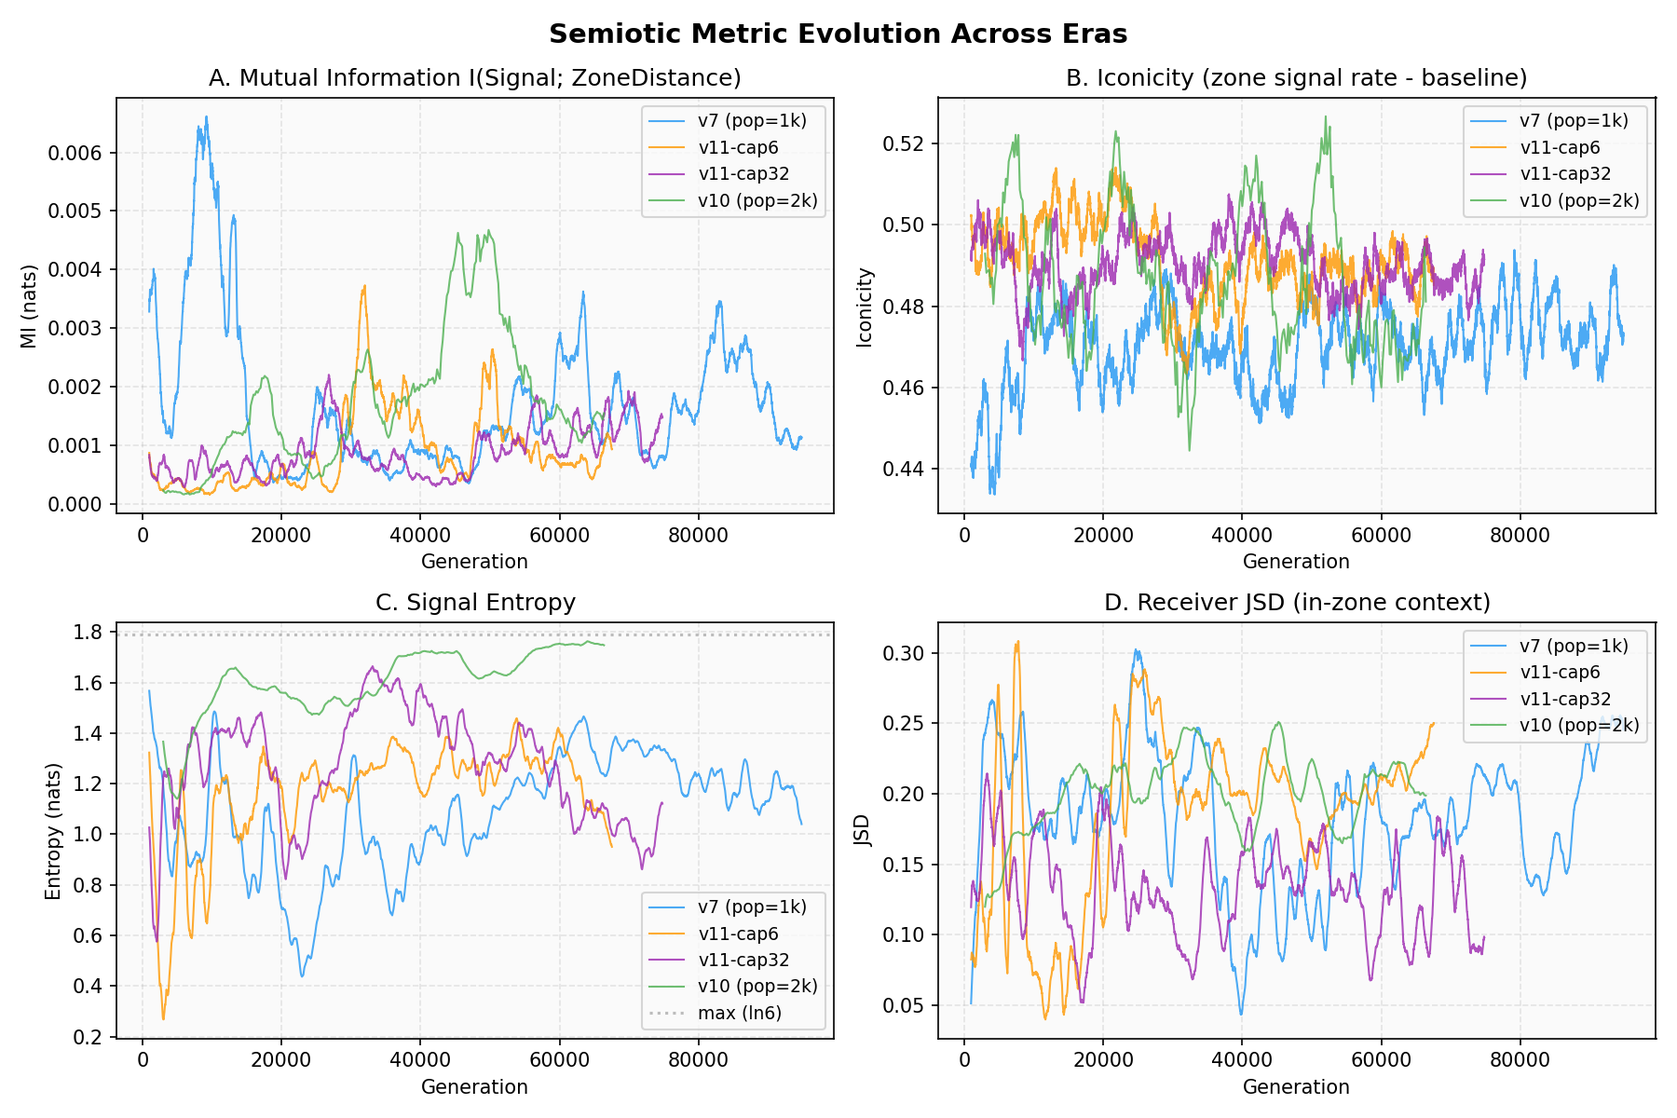
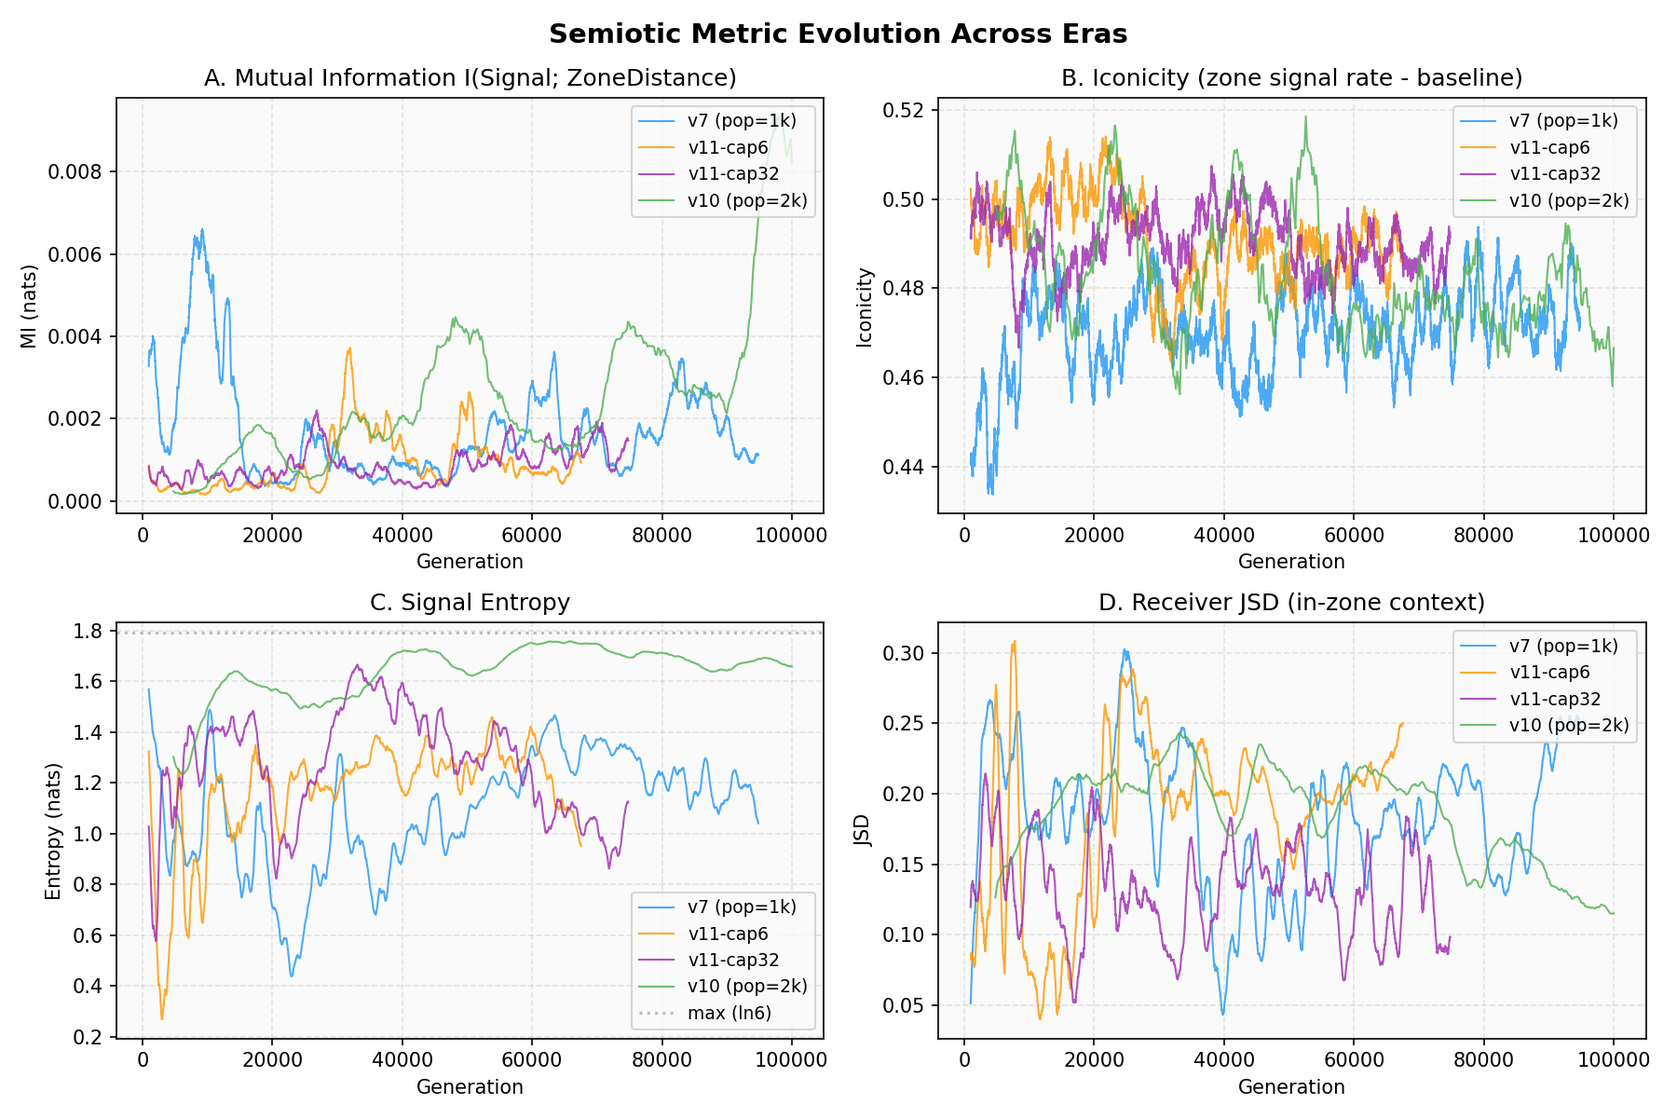
Document v10 and v12 completed runs, add blind vs sighted figure

diff --git a/figures/generate_figures.py b/figures/generate_figures.py
@@ -360,7 +360,7 @@ def fig5_blind_mode():
         return
 
     fig, axes = plt.subplots(2, 2, figsize=(12, 8))
-    fig.suptitle('Era 12: Blind Mode Early Results (spatial perception stripped)', fontweight='bold', fontsize=14)
+    fig.suptitle('Era 12: Blind Mode (spatial perception stripped, 100k gens)', fontweight='bold', fontsize=14)
 
     w = max(5, len(d['generation']) // 20)
 
@@ -410,10 +410,97 @@ def fig5_blind_mode():
     print('Saved fig5_blind_mode.png')
 
 
+# --- Figure 6: Blind vs Sighted Comparison ---
+# v12-blind6-42 (blind, cap=6) vs v11-cap6-42 (sighted, cap=6) - same signal capacity, different perception
+
+def fig6_blind_vs_sighted():
+    blind = load_run('v12-blind6-42')
+    sighted = load_run('v11-cap6-42')
+
+    fig, axes = plt.subplots(2, 3, figsize=(15, 8))
+    fig.suptitle('Blind vs Sighted: Same Signal Capacity (cap=6), 100k Gens', fontweight='bold', fontsize=14)
+
+    wb = max(5, len(blind['generation']) // 20)
+    ws = max(5, len(sighted['generation']) // 20)
+
+    # Panel A: Fitness
+    ax = axes[0, 0]
+    ax.plot(smooth_gen(sighted['generation'], ws), smooth(sighted['avg_fitness'], ws),
+            color='#2196F3', alpha=0.8, linewidth=1, label='Sighted (v11-cap6)')
+    ax.plot(smooth_gen(blind['generation'], wb), smooth(blind['avg_fitness'], wb),
+            color='#607D8B', alpha=0.8, linewidth=1, label='Blind (v12)')
+    ax.set_title('A. Avg Fitness')
+    ax.set_xlabel('Generation')
+    ax.set_ylabel('Fitness')
+    ax.legend()
+
+    # Panel B: MI
+    ax = axes[0, 1]
+    ax.plot(smooth_gen(sighted['generation'], ws), smooth(sighted['mutual_info'], ws),
+            color='#2196F3', alpha=0.8, linewidth=1, label='Sighted')
+    ax.plot(smooth_gen(blind['generation'], wb), smooth(blind['mutual_info'], wb),
+            color='#607D8B', alpha=0.8, linewidth=1, label='Blind')
+    ax.set_title('B. Mutual Information')
+    ax.set_xlabel('Generation')
+    ax.set_ylabel('MI (nats)')
+    ax.legend()
+
+    # Panel C: Signal entropy
+    ax = axes[0, 2]
+    ax.plot(smooth_gen(sighted['generation'], ws), smooth(sighted['signal_entropy'], ws),
+            color='#2196F3', alpha=0.8, linewidth=1, label='Sighted')
+    ax.plot(smooth_gen(blind['generation'], wb), smooth(blind['signal_entropy'], wb),
+            color='#607D8B', alpha=0.8, linewidth=1, label='Blind')
+    ax.axhline(y=np.log(6), color='gray', linestyle=':', alpha=0.5)
+    ax.set_title('C. Signal Entropy')
+    ax.set_xlabel('Generation')
+    ax.set_ylabel('Entropy (nats)')
+    ax.legend()
+
+    # Panel D: Iconicity
+    ax = axes[1, 0]
+    ax.plot(smooth_gen(sighted['generation'], ws), smooth(sighted['iconicity'], ws),
+            color='#2196F3', alpha=0.8, linewidth=1, label='Sighted')
+    ax.plot(smooth_gen(blind['generation'], wb), smooth(blind['iconicity'], wb),
+            color='#607D8B', alpha=0.8, linewidth=1, label='Blind')
+    ax.set_title('D. Iconicity')
+    ax.set_xlabel('Generation')
+    ax.set_ylabel('Iconicity')
+    ax.legend()
+
+    # Panel E: Signal hidden size
+    ax = axes[1, 1]
+    ax.plot(smooth_gen(sighted['generation'], ws), smooth(sighted['avg_signal_hidden'], ws),
+            color='#2196F3', alpha=0.8, linewidth=1, label='Sighted')
+    ax.plot(smooth_gen(blind['generation'], wb), smooth(blind['avg_signal_hidden'], wb),
+            color='#607D8B', alpha=0.8, linewidth=1, label='Blind')
+    ax.set_title('E. Signal Hidden Size')
+    ax.set_xlabel('Generation')
+    ax.set_ylabel('Avg neurons')
+    ax.legend()
+
+    # Panel F: Zone deaths
+    ax = axes[1, 2]
+    ax.plot(smooth_gen(sighted['generation'], ws), smooth(sighted['zone_deaths'], ws),
+            color='#2196F3', alpha=0.8, linewidth=1, label='Sighted')
+    ax.plot(smooth_gen(blind['generation'], wb), smooth(blind['zone_deaths'], wb),
+            color='#607D8B', alpha=0.8, linewidth=1, label='Blind')
+    ax.set_title('F. Zone Deaths per Generation')
+    ax.set_xlabel('Generation')
+    ax.set_ylabel('Deaths')
+    ax.legend()
+
+    plt.tight_layout()
+    plt.savefig(os.path.join(DATA_DIR, 'fig6_blind_vs_sighted.png'))
+    plt.close()
+    print('Saved fig6_blind_vs_sighted.png')
+
+
 if __name__ == '__main__':
     fig1_signal_value()
     fig2_semiotic_metrics()
     fig3_brain_evolution()
     fig4_volume_knob()
     fig5_blind_mode()
+    fig6_blind_vs_sighted()
     print('All figures generated.')

diff --git a/src/signal.rs b/src/signal.rs
@@ -5,6 +5,9 @@ use crate::world::wrap_delta;
 
 pub const NUM_SYMBOLS: usize = 6;
 
+/// Chunk size for vectorizable distance computation in signal reception.
+const RECV_CHUNK: usize = 64;
+
 #[derive(Clone, Debug)]
 pub struct Signal {
     pub x: i32,
@@ -165,7 +168,6 @@ pub fn receive_detailed_grid(
     let grid_size_i = grid_size as i32;
     let half_gs = grid_size_i >> 1;
     let range_sq = signal_range * signal_range;
-    let range_i = signal_range as i32;
     let cs = grid.cell_size;
     let cpa = grid.cells_per_axis;
     let r_max = grid.cells_radius;
@@ -208,46 +210,47 @@ pub fn receive_detailed_grid(
                 let s = start as usize;
                 let end = s + len as usize;
 
-                // Inner loop: SoA access + inlined wrap_delta
-                for k in s..end {
-                    let ddx = {
-                        let d = i32::from(grid.sig_x[k]) - rx;
-                        if d > half_gs {
-                            d - grid_size_i
-                        } else if d < -half_gs {
-                            d + grid_size_i
-                        } else {
-                            d
+                // Two-pass inner loop: branchless distance (vectorizable), then
+                // scalar per-symbol min update. Chunked to keep temps in L1.
+                let xs = &grid.sig_x[s..end];
+                let ys = &grid.sig_y[s..end];
+                let syms = &grid.sig_sym[s..end];
+                let n = xs.len();
+
+                let mut buf_dsq = [f32::MAX; RECV_CHUNK];
+                let mut buf_dx = [0.0_f32; RECV_CHUNK];
+                let mut buf_dy = [0.0_f32; RECV_CHUNK];
+
+                let mut i = 0;
+                while i < n {
+                    let chunk_n = RECV_CHUNK.min(n - i);
+
+                    // Pass 1: branchless wrap + distance (LLVM can auto-vectorize)
+                    for j in 0..chunk_n {
+                        let dx = i32::from(xs[i + j]) - rx;
+                        let ddx = dx - grid_size_i * i32::from(dx > half_gs)
+                            + grid_size_i * i32::from(dx < -half_gs);
+                        let dy = i32::from(ys[i + j]) - ry;
+                        let ddy = dy - grid_size_i * i32::from(dy > half_gs)
+                            + grid_size_i * i32::from(dy < -half_gs);
+                        buf_dx[j] = ddx as f32;
+                        buf_dy[j] = ddy as f32;
+                        buf_dsq[j] = (ddx * ddx + ddy * ddy) as f32;
+                    }
+
+                    // Pass 2: per-symbol minimum (scalar, only for in-range)
+                    for j in 0..chunk_n {
+                        if buf_dsq[j] < range_sq {
+                            let sym = syms[i + j] as usize;
+                            if sym < NUM_SYMBOLS && buf_dsq[j] < best_dist_sq[sym] {
+                                best_dist_sq[sym] = buf_dsq[j];
+                                best_dx[sym] = buf_dx[j];
+                                best_dy[sym] = buf_dy[j];
+                            }
                         }
-                    };
-                    if ddx > range_i || ddx < -range_i {
-                        continue;
                     }
-                    let ddy = {
-                        let d = i32::from(grid.sig_y[k]) - ry;
-                        if d > half_gs {
-                            d - grid_size_i
-                        } else if d < -half_gs {
-                            d + grid_size_i
-                        } else {
-                            d
-                        }
-                    };
-                    if ddy > range_i || ddy < -range_i {
-                        continue;
-                    }
-                    let dxf = ddx as f32;
-                    let dyf = ddy as f32;
-                    let dist_sq = dxf * dxf + dyf * dyf;
-                    if dist_sq >= range_sq {
-                        continue;
-                    }
-                    let sym = grid.sig_sym[k] as usize;
-                    if sym < NUM_SYMBOLS && dist_sq < best_dist_sq[sym] {
-                        best_dist_sq[sym] = dist_sq;
-                        best_dx[sym] = dxf;
-                        best_dy[sym] = dyf;
-                    }
+
+                    i += chunk_n;
                 }
             }
         }

diff --git a/FINDINGS.md b/FINDINGS.md
@@ -15,6 +15,8 @@ Experimental history of semiotic-emergence. Each era documents what we tested, w
 - [Era 8: Signal Value Testing](#era-8-signal-value-testing) - Food MI, input stripping, food scarcity
 - [GPU Scale-Up: Population is the Key Variable](#gpu-scale-up-population-is-the-key-variable) - 5,000 prey on A100
 - [Era 9: Response Quality](#era-9-response-quality) - Volume knob hypothesis, response_fit_corr first data
+- [Era 10: Population Scale](#era-10-population-scale-pop2000-100k-gens) - 2000 pop bracket test
+- [Era 12: Blind Mode](#era-12-blind-mode-100k-gens) - Spatial perception stripped
 - [Cross-Era Analysis](#cross-era-analysis-the-metric-problem) - The metric problem
 - [Standing Conclusions](#standing-conclusions)
 
@@ -46,10 +48,10 @@ Every significant run, its parameters, and headline result.
 | v9-deme-42 | 8 | 42 | ~21,000 | v8 + demes 4, vision 0.5 | MI~0, mute +56% fitter (killed early) |
 | v9-mute-42 | 8 | 42 | ~36,000 | same, --no-signals | baseline (killed early) |
 | gpu-5k-s42 | GPU | 42 | 100,000 | 5k pop, 150x150, A100, JAX | **Signals have adaptive value** (+0.51 corr) |
-| v10-2k-42 | 10 | 42 | 66,600+ | pop=2000, grid=100, zone-radius=14, food=520 | Population bracket test (running) |
+| v10-2k-42 | 10 | 42 | 100,000 | pop=2000, grid=100, zone-radius=14, food=520 | Signal hidden 26.8/32, MI 0.008, all 6 symbols active |
 | v11-cap6-42 | 11 | 42 | 67,540 | pop=384, max-signal-hidden=6, metrics-interval=10 | response_fit_corr negative (-0.13 to -0.28) |
 | v11-cap32-42 | 11 | 42 | 74,810 | pop=384, max-signal-hidden=32 (control), metrics-interval=10 | response_fit_corr near zero, occasionally +0.16 |
-| v12-blind6-42 | 12 | 42 | running | pop=384, --blind, max-signal-hidden=6 | Blind mode: spatial perception stripped (running) |
+| v12-blind6-42 | 12 | 42 | 100,000 | pop=384, --blind, max-signal-hidden=6 | Blind mode failed: MI~0, 2 symbols extinct, fitness halved vs sighted |
 
 Raw data files: `analysis/` directory and VPS `runs/` directories. Figures generated from `figures/generate_figures.py`.
 
@@ -665,7 +667,82 @@ Parameters: pop=384, grid=56, max-signal-hidden=32 (default), metrics-interval=1
 
 **Why negative?** Prey that ignore symbol differences and act on direct spatial inputs (food direction, ally direction) outperform prey that try to use signal content. At 384 pop, the signal environment is too noisy for symbol-differentiated responses to be reliable. Evolution penalizes symbol differentiation because the signal channel is less informative than direct perception.
 
-**Next step: blind mode.** `--blind` strips all spatial perception (food dx/dy/dist, ally dx/dy/dist), leaving only body state (energy, energy_delta, zone_damage), signals, and memory. This makes signals the ONLY source of spatial information, creating selection pressure for vocabulary. v12-blind6-42 launched with this configuration.
+**Next step: blind mode.** `--blind` strips all spatial perception (food dx/dy/dist, ally dx/dy/dist), leaving only body state (energy, energy_delta, zone_damage), signals, and memory. This makes signals the ONLY source of spatial information, creating selection pressure for vocabulary. v12-blind6-42 launched with this configuration. Results in Era 12 below.
+
+---
+
+## Era 10: Population Scale (pop=2000, 100k gens)
+
+*Question: Where is the population threshold for signal emergence? The gap is between 384 (no emergence) and 5,000 (emergence on GPU).*
+
+**Parameters:** pop=2000, grid=100, zone-radius=14, food=520, metrics-interval=200, seed 42. v10 architecture (pre-response_fit_corr fix).
+
+**Run:** v10-2k-42, 100,000 generations (~72 hours on VPS, 12 vCPU).
+
+### Findings
+
+**1. Signal hidden layer grew to near-maximum.** avg_signal_hidden=26.8 [21-32] at completion, with peak 30.4 at gen 62,800. Base hidden stayed at ~12 [10-15]. Strong selection for signal processing capacity at 2000 pop - the signal hidden layer is 2.3x the base layer.
+
+**2. All 6 symbols remained active.** Final distribution: [10%, 21%, 3%, 21%, 16%, 30%]. HHI=0.210 (low concentration). No symbol went extinct over 100k gens. At 384 pop, runs typically lose 1-2 symbols by 50k gens.
+
+**3. MI sustained but low.** Sustained MI=0.008 (last 10%), peak 0.018 at gen 95k. Higher than 384-pop runs (~0.002-0.005) but far below the GPU run.
+
+**4. Brain size correlates with fitness and entropy.** Brain-fitness correlation: base 0.514, signal 0.506. Brain-entropy: base 0.725, signal 0.667. Larger brains associate with higher fitness and more diverse signaling.
+
+**5. Food distance is the top encoding.** Input MI analysis: food_dist (0.089), freeze_pressure (0.068), food_dy (0.067) dominate. Signal inputs are mid-tier (sig2_str 0.042, sig3_str 0.041). Signals encode spatial information but direct perception still dominates.
+
+**6. response_fit_corr unmeasurable.** v10 predates the response_fit_corr fix (commit 31a1516) - all zeros. Cannot assess whether symbol differentiation is adaptive at 2000 pop.
+
+![v10 brain evolution (complete)](figures/fig3_brain_evolution.png)
+*Figure 3 (updated): Panel C shows v10 brain evolution across full 100k gens. Signal hidden (orange) grows rapidly to 27-30 near the cap of 32, while base hidden (green) stabilizes at ~12. The shaded range shows population variance.*
+
+### Interpretation
+
+2000 pop is an intermediate regime. Signal capacity (hidden layer size) is strongly selected, symbols are maintained, and MI is higher than at 384 pop. But MI remains low in absolute terms (0.008 vs ~0.1 at 5k pop on GPU). The population may be large enough for signal infrastructure to be selected but not large enough for the statistical regularity needed for functional reference.
+
+The missing response_fit_corr data means we can't determine whether symbol differentiation is adaptive at 2000 pop - the one metric that would answer the question wasn't available in v10. A v12+ run at 2000 pop with the fixed metric would be the direct test.
+
+---
+
+## Era 12: Blind Mode (100k gens)
+
+*Question: Does removing spatial perception force signal dependence?*
+
+**Parameters:** pop=384, grid=56, --blind (zeros food dx/dy/dist and ally dx/dy/dist inputs 3-8, implies --no-death-echoes and --no-freeze-pressure), max-signal-hidden=6, metrics-interval=10, seed 42.
+
+**Run:** v12-blind6-42, 100,000 generations.
+
+### Findings
+
+**1. Fitness halved compared to sighted.** Sustained avg fitness 836 vs ~1100 sighted (v11-cap6). Removing spatial perception is a severe handicap. Fitness climbed slowly over 100k gens (750 to 850) but never approached sighted levels.
+
+**2. MI remained near zero.** Sustained MI=0.003, peak 0.025 (brief spike at gen 99k). No sustained signal-zone correlation emerged over 100k gens. Removing spatial inputs did not create selective pressure for zone-encoding signals.
+
+**3. Two symbols went extinct.** sym0 and sym5 dropped to 0% usage. Final HHI=0.523 (high concentration) with sym3 dominating at 70%. The vocabulary contracted rather than differentiating.
+
+**4. Brain stayed small.** Signal hidden: 4.4 [2-6] (well below cap 6). Base hidden: 7.0 [4-10]. Evolution did not maximize signal capacity when spatial perception was removed - the opposite of v10 and v11 where signal hidden grows to ceiling. Without useful spatial information to relay, there's no selection pressure for signal processing.
+
+**5. Memory and signal strength dominate encoding.** Input MI top 3: mem5 (0.150), sig4_str (0.143), mem6 (0.139). Food/ally/death inputs are all zero (as expected from --blind). Signals correlate with memory state, not world state.
+
+**6. response_fit_corr slightly negative.** -0.044 sustained. Symbol differentiation is weakly maladaptive, similar to v11-cap6 (-0.13 to -0.28) but less negative. Direct perception isn't available to outcompete signals, but signals still don't help.
+
+**7. Receiver_fit_corr remains high.** 0.807 - but this is the same spatial confound (center prey hear more AND survive more). Not evidence of signal utility.
+
+![Blind mode complete results](figures/fig5_blind_mode.png)
+*Figure 5 (updated): v12-blind6-42 full 100k-gen trajectory. Panel A: fitness slowly climbs but plateaus around 840. Panel B: MI flat at zero, iconicity stable at ~0.5 (no zone-signal correlation). Panel C: entropy oscillates (0.6-1.4), never stabilizes. Panel D: brain size stays near minimum, with a late-run base hidden spike.*
+
+![Blind vs sighted comparison](figures/fig6_blind_vs_sighted.png)
+*Figure 6: Blind (v12) vs sighted (v11-cap6) at identical signal capacity (cap=6). Sighted prey maintain ~30% higher fitness, higher MI, and higher entropy. Signal hidden sizes are similar (~4-5) but sighted prey use the capacity more effectively.*
+
+### Interpretation
+
+**The blind mode hypothesis is disproven.** Removing spatial perception did not force signal dependence - it just made prey worse at surviving. The expectation was that without direct food/ally perception, signals would become the only source of spatial information and evolution would be forced to develop vocabulary. Instead:
+
+1. **No information to relay.** Blind prey can't see food or allies, so they can't signal about food or allies. The information asymmetry that makes signals valuable (some prey know things others don't) is destroyed rather than redirected through the signal channel.
+
+2. **Memory replaces perception.** The top input MI dimensions are memory cells, not signals. Prey learned to use recurrent memory to track their own state history rather than relying on social information.
+
+3. **Signal hidden didn't grow.** At v10 (2000 pop, sighted), signal hidden grows to 27/32. At v11-cap6 (384 pop, sighted), it hits 5/6. At v12-blind (384 pop, blind), it stays at 4.4/6. Without useful information flowing through the signal channel, there's no selection pressure for signal processing capacity.
 
 ---
 
@@ -735,6 +812,7 @@ What holds true across all runs, what's been disproven, and what remains open.
 | Demes enable altruistic food signaling | 8 (v9) | 4x4 demes + near-blindness still produced mute +56% fitter |
 | Ecological conditions are the bottleneck | 8+GPU | **Disproven: population scale is the bottleneck** |
 | Constraining signal capacity improves encoding quality | 9 (v11) | Cap=6 produces more food encoding but symbol differentiation is maladaptive (-0.13 to -0.28 response_fit_corr). Direct spatial inputs outcompete signals. |
+| Removing spatial perception forces signal dependence | 12 (v12) | Blind mode: MI~0, 2 symbols extinct, fitness halved. Prey can't signal about things they can't perceive. Memory replaces perception, not signals. |
 
 ### What works
 
@@ -761,14 +839,11 @@ What holds true across all runs, what's been disproven, and what remains open.
 
 5. **Does making food harder to find amplify signal value?** ANSWERED: Not at 384 pop. Era 8 (v8 vision=2.0, v9 vision=0.5) had food encoding present but signals still net negative. Scale, not scarcity, is the bottleneck.
 
-6. **What is the minimum population for signal emergence?** Open. Threshold between 384 (no emergence across 9 eras) and 5,000 (emergence on GPU). v10-2k-42 brackets this at 2,000 pop (running, 66.6k/100k gens).
+6. **What is the minimum population for signal emergence?** PARTIALLY ANSWERED. v10-2k-42 (100k gens, pop=2000) shows intermediate regime: signal hidden grows to near-max (26.8/32), all 6 symbols survive, MI=0.008 sustained. But response_fit_corr unavailable (pre-fix). Threshold still bracketed between 384 and 5,000. Next test: v12+ architecture at 2000 pop to measure response_fit_corr.
 
 7. **Can the response_fit_corr metric be fixed?** FIXED AND MEASURED (commit 31a1516, v11 data). Metric works - produces nonzero values. But the biological result is that symbol differentiation is maladaptive at 384 pop (cap=6: -0.13 to -0.28) and neutral (cap=32: ~0). Direct spatial inputs outcompete the signal channel.
 
-8. **Does removing spatial perception flip response_fit_corr positive?** TESTING (v12-blind6-42). `--blind` zeros food dx/dy/dist, ally dx/dy/dist (plus death echoes and freeze pressure already). If signals become the only source of spatial information, symbol differentiation should become adaptive. Expected: positive response_fit_corr, higher MI, possible vocabulary emergence.
-
-![Blind mode early results](figures/fig5_blind_mode.png)
-*Figure 5: v12-blind6-42 early trajectory (~3k gens). Brain collapsed to minimum (~4 neurons), MI flat zero, signal entropy recovering from initial crash. Too early for conclusions - needs 20k+ gens.*
+8. **Does removing spatial perception flip response_fit_corr positive?** ANSWERED: No. v12-blind6-42 (100k gens) shows response_fit_corr=-0.044, MI~0, 2 symbols extinct. Blind prey can't see food/allies and therefore can't signal about them. Removing perception destroys the information asymmetry that makes signals valuable rather than redirecting it through the signal channel. See Era 12.
 
 ### Evidence hierarchy status
 
@@ -780,7 +855,7 @@ What holds true across all runs, what's been disproven, and what remains open.
 | 4 | Responses are appropriate | **NO** - symbol differentiation maladaptive (v11) | Metric fixed, needs GPU rebuild |
 | 5 | Genuine reference | Not testable | Not testable |
 
-**Critical gap:** Level 4 now measured at 384 pop - negative (symbol differentiation maladaptive). The `--blind` experiment (v12) tests whether removing direct spatial perception flips this by making signals the only spatial information source. Level 4 at 5k pop (GPU) remains unmeasured.
+**Critical gap:** Level 4 measured at 384 pop - negative both sighted (v11) and blind (v12). Blind mode disproven as a path to signal emergence. v10 at 2000 pop shows signal infrastructure selection (hidden layer growth, symbol diversity) but response_fit_corr unmeasurable (pre-fix architecture). The key open experiment is v12+ architecture at 2000 pop to measure response_fit_corr. Level 4 at 5k pop (GPU) also remains unmeasured.
 
 ### Parameter history
 
